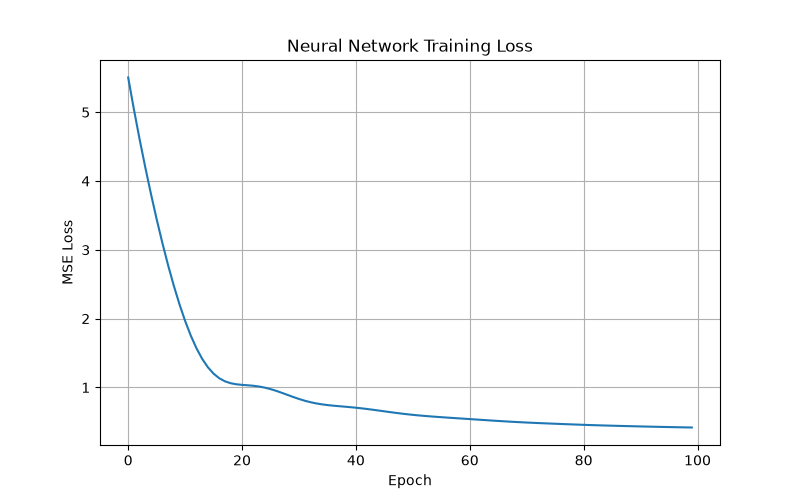
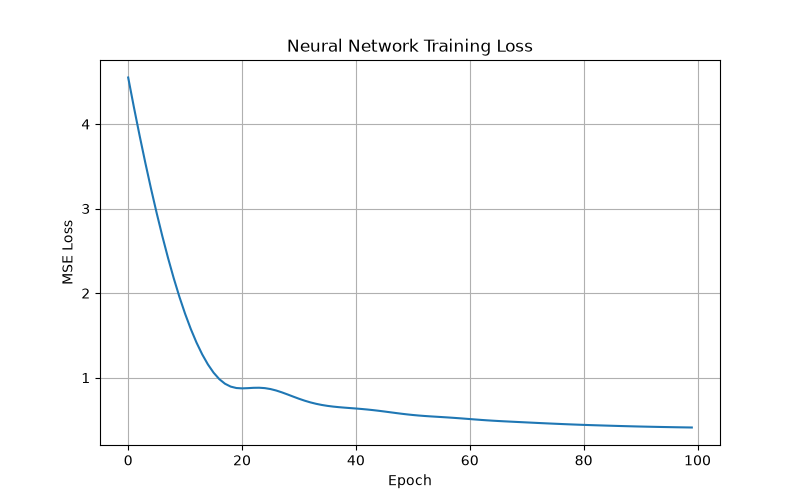
Checking format

diff --git a/assignment2/README.md b/assignment2/README.md
@@ -79,33 +79,28 @@ It can be downloaded/loaded using the
 
 ## First 5 Rows
 
-|    |   MedInc |   HouseAge |   AveRooms |   AveBedrms |   Population |   AveOccup |   Latitude |   Longitude |   MedHouseVal |
-|---:|---------:|-----------:|-----------:|------------:|-------------:|-----------:|-----------:|------------:|--------------:|
-|  0 |   8.3252 |         41 |    6.98413 |     1.02381 |          322 |    2.55556 |      37.88 |     -122.23 |         4.526 |
-|  1 |   8.3014 |         21 |    6.23814 |     0.97188 |         2401 |    2.10984 |      37.86 |     -122.22 |         3.585 |
-|  2 |   7.2574 |         52 |    8.28814 |     1.07345 |          496 |    2.80226 |      37.85 |     -122.24 |         3.521 |
-|  3 |   5.6431 |         52 |    5.81735 |     1.07306 |          558 |    2.54795 |      37.85 |     -122.25 |         3.413 |
-|  4 |   3.8462 |         52 |    6.28185 |     1.08108 |          565 |    2.18147 |      37.85 |     -122.25 |         3.422 |
+   MedInc  HouseAge  AveRooms  AveBedrms  Population  AveOccup  Latitude  Longitude  MedHouseVal
+0  8.3252      41.0  6.984127   1.023810       322.0  2.555556     37.88    -122.23        4.526
+1  8.3014      21.0  6.238137   0.971880      2401.0  2.109842     37.86    -122.22        3.585
+2  7.2574      52.0  8.288136   1.073446       496.0  2.802260     37.85    -122.24        3.521
+3  5.6431      52.0  5.817352   1.073059       558.0  2.547945     37.85    -122.25        3.413
+4  3.8462      52.0  6.281853   1.081081       565.0  2.181467     37.85    -122.25        3.422
 
 ## Summary Statistics
 
-|       |      MedInc |   HouseAge |     AveRooms |    AveBedrms |   Population |     AveOccup |    Latitude |   Longitude |   MedHouseVal |
-|:------|------------:|-----------:|-------------:|-------------:|-------------:|-------------:|------------:|------------:|--------------:|
-| count | 20640       | 20640      | 20640        | 20640        |     20640    | 20640        | 20640       | 20640       |   20640       |
-| mean  |     3.87067 |    28.6395 |     5.429    |     1.09668  |      1425.48 |     3.07066  |    35.6319  |  -119.57    |       2.06856 |
-| std   |     1.89982 |    12.5856 |     2.47417  |     0.473911 |      1132.46 |    10.386    |     2.13595 |     2.00353 |       1.15396 |
-| min   |     0.4999  |     1      |     0.846154 |     0.333333 |         3    |     0.692308 |    32.54    |  -124.35    |       0.14999 |
-| 25%   |     2.5634  |    18      |     4.44072  |     1.00608  |       787    |     2.42974  |    33.93    |  -121.8     |       1.196   |
-| 50%   |     3.5348  |    29      |     5.22913  |     1.04878  |      1166    |     2.81812  |    34.26    |  -118.49    |       1.797   |
-| 75%   |     4.74325 |    37      |     6.05238  |     1.09953  |      1725    |     3.28226  |    37.71    |  -118.01    |       2.64725 |
-| max   |    15.0001  |    52      |   141.909    |    34.0667   |     35682    |  1243.33     |    41.95    |  -114.31    |       5.00001 |
+   MedInc  HouseAge  AveRooms  AveBedrms  Population  AveOccup  Latitude  Longitude  MedHouseVal
+0  8.3252      41.0  6.984127   1.023810       322.0  2.555556     37.88    -122.23        4.526
+1  8.3014      21.0  6.238137   0.971880      2401.0  2.109842     37.86    -122.22        3.585
+2  7.2574      52.0  8.288136   1.073446       496.0  2.802260     37.85    -122.24        3.521
+3  5.6431      52.0  5.817352   1.073059       558.0  2.547945     37.85    -122.25        3.413
+4  3.8462      52.0  6.281853   1.081081       565.0  2.181467     37.85    -122.25        3.422
 
 # Model Evaluation
 
 | Model | MSE | RMSE |
 |-------|------|------|
 | Linear Regression | 0.5290 | 0.7273 |
-| Neural Network | 0.4152 | 0.6444 |
+| Neural Network | 0.4170 | 0.6458 |
 
 ## Analysis
 
